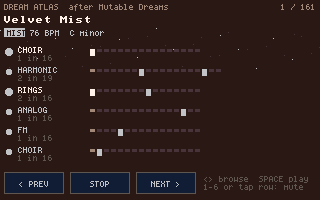
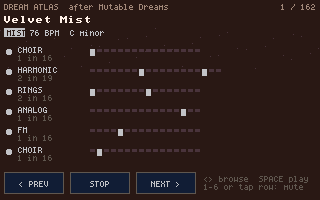
dreamatlas: Mipo Band, Puppetmaker 2's band with singing Mipos
Conga, an alternating bongo pair (JamCfg.pair), tambourine, guiro, the
babirhodes rolled six-note Rhodes chord at a wandering root, and the Mipos
singing pi / po with the odd ba / bi. 60 BPM, swing 52, chromatic. New models
TAMB, RHODES, VOICE from Playtime's puppetmaker patches. The voice is started
live from update(): INSTR_VOICE resets to a neutral 'ah' after applying its
macros at note-on, so a booked note cannot change vowel or take a consonant
(engine bug documented in the design doc, not fixed here).

diff --git a/tools/carts/dreamatlas.c b/tools/carts/dreamatlas.c
@@ -9,7 +9,7 @@
   "lineage": "A port of the BIOME atlas from Mutable Dreams 1.4 (Kid Bunka / Christoph Link, free firmware for the M-VAVE FM-1, itself built on Mutable Instruments' Plaits/Rings/Elements). The 157 scenes are the upstream's own factory data (MIT), generated into runtime/dreamatlas/biomes.h; the sequencer (Euclid hits/length/rotate per track, seeded rolls, chord journeys, scale masks, the Lo-Fi kit) is ported line by line from app/dsp/dreams.cpp. The fifteen VOICES are NOT ported: each is mapped onto the nearest engine dreamengine already ships, which is the experiment.",
   "homage": "Mutable Dreams (Kid Bunka) / Mutable Instruments",
   "description": {
-    "summary": "157 small generative worlds from Mutable Dreams, plus a few of our own (a house jam, a tabla-and-guiro bazaar, Moon Meadow with tablas, a slow organ-and-upright brew): six drifting Euclidean tracks, chord journeys and a Lo-Fi kit, played on dreamengine's own voices.",
+    "summary": "157 small generative worlds from Mutable Dreams, plus a few of our own (a house jam, a tabla-and-guiro bazaar, Moon Meadow with tablas, a slow organ-and-upright brew, the Puppetmaker band with singing Mipos): six drifting Euclidean tracks, chord journeys and a Lo-Fi kit, played on dreamengine's own voices.",
     "detail": "Each BIOME is one scene: six tracks, each a voice (Plaits-style drums, FM, analog, Rings and Elements resonators, a sine choir, a round bass...) with its OWN rhythm, k hits spread over n steps. The lengths differ (16, 19, 13...), so the tracks slide against each other and the loop takes minutes to come round. Some biomes walk a chord progression under it, some swap three tracks for a crunchy 16 kHz Lo-Fi drum kit. Browse in the curated order: neighbours are meant to feel genuinely different. The scenes are the original's factory data; the sounds are this engine's nearest voices, so it is a translation, not a copy.",
     "controls": "LEFT/RIGHT or the arrows: next / previous biome · SPACE or PLAY: start / stop · 1-6: mute a track · tap a track row to mute it"
   },
@@ -42,11 +42,11 @@ de:meta */
 // ── upstream constants ───────────────────────────────────────────────────────
 enum { M_KICK, M_SNARE, M_HAT, M_FM, M_VA, M_RINGS, M_HARMONIC, M_CHOIR, M_BASS, M_ELEMENTS,
        M_MELLOW, M_SATIN, M_VELVET, M_SPECTRAL, M_BREATH,
-       M_TABLA, M_SCRAPE, M_UPRIGHT, M_ORGAN, M_GUITAR, M_BELL,
+       M_TABLA, M_SCRAPE, M_UPRIGHT, M_ORGAN, M_GUITAR, M_BELL, M_TAMB, M_RHODES, M_VOICE,
        M_MODELS };   // from M_TABLA on they are OURS (no upstream model): only our own biomes use them
 static const char *const MODEL_NAME[M_MODELS] = { "KICK", "SNARE", "HAT", "FM", "ANALOG", "RINGS", "HARMONIC",
     "CHOIR", "BASS", "ELEMENTS", "MELLOW", "SATIN", "VELVET KEYS", "SPECTRAL", "BREATH", "TABLA", "SCRAPE",
-    "UPRIGHT", "ORGAN", "GUITAR", "BELL" };
+    "UPRIGHT", "ORGAN", "GUITAR", "BELL", "TAMB", "RHODES", "VOICE" };
 static const char *const KIT_NAME[5] = { "DUST", "CRATE", "SOFT", "FOUND OBJECTS", "VELOUR TAPE" };
 static const char *const SCALE_NAME[13] = { "chromatic", "minor", "major", "dorian", "minor pent", "major pent",
     "whole tone", "phrygian", "ukr dorian", "harm minor", "dbl harm min", "harm major", "dbl harm maj" };
@@ -129,7 +129,15 @@ static Scene S;
 // shapes on a 10-eighth (5/4) cycle; the agogo plays 5 in 12. The bar, the bells' three-against-
 // four, the organ's dotted halves and the guitar's fives meet again only every few bars; the bass
 // and the chords every 3. The bells keep time where brew has a hat (six tracks).
-#define DA_OWN 4
+// MIPO BAND is Puppetmaker 2's band (Mipo Puppetmaker; the playtime docs/PUPPETMAKER-SOUND.md §1a
+// and its puppetmaker style), on Playtime's synth patches for it: the CR-78 conga (low), the two
+// bongos as one alternating low/high pair (+7), the tambourine (a short jingle high-passed at
+// 6.5 kHz), the guiro (INSTR_SCRAPE), the babirhodes "lick" (one ROLLED six-note chord, root + 0 7 16
+// 19 21 24, up-strummed +29 +23 +23 +76 +40 ms, ringing 3 s, floating in at a wandering root: the
+// same voicing every time, only the pitch moves) and the Mipos singing, INSTR_VOICE cycling the
+// syllables mi-po-la-i. 60 BPM in 16ths, swing 52, chromatic, and nothing resolves. One odd length:
+// the Mipos sing 5 in 14. The triangles and the ba/bi blips have no track left.
+#define DA_OWN 5
 #define DA_ALL (DA_BIOMES + DA_OWN)
 static const DaBiome DA_OWN_BIOME[DA_OWN] = {
  {"Marmalade Jam",8,125,7,2,125125,0,0,650,200,100,0,120,0,0,0,380,300,{500,260,520,60},{
@@ -160,13 +168,21 @@ static const DaBiome DA_OWN_BIOME[DA_OWN] = {
   /* upright (hUpright)  */ {17,300,300,350,800,0,13,24,0,900,41,480,0,2,0,1,250,450,850,100,0,0},
   /* organ   (brewOrgan) */ {18,600,100,700,450,200,2,6,0,1000,53,400,0,4,0,1,100,250,850,100,0,0},
   /* guitar  (brewGuitar)*/ {19,220,400,500,500,150,3,10,0,850,60,600,0,2,0,1,200,100,850,100,0,0}}},
+ {"Mipo Band",5,60,3,0,52525,0,0,650,200,100,0,80,0,0,-1,0,300,{500,350,500,60},{
+  /* conga   (conga)     */ {15,300,150,580,800,0,4,16,0,550,52,450,0,1,0,1,200,0,850,100,0,0},
+  /* bongos  (conga)     */ {15,300,150,257,600,0,7,16,1,750,62,560,0,1,0,1,250,0,850,100,0,0},
+  /* tamb                */ {21,0,0,220,200,60,9,16,0,850,60,620,0,1,0,1,300,0,850,100,0,0},
+  /* guiro   (guiro)     */ {16,870,0,600,700,20,1,16,9,500,60,380,0,1,0,1,0,0,850,100,0,0},
+  /* rhodes  (rhodes2)   */ {22,200,150,1000,400,300,1,16,8,500,51,500,0,1,0,1,0,120,850,100,0,150},
+  /* mipos               */ {23,850,0,500,250,250,5,14,2,450,69,500,0,1,0,1,200,500,850,100,0,0}}},
 };
 // how each of our biomes JAMS (Playtime's drum jam): the order its layers enter, who may rest a
 // phrase, who a breakdown takes out, which track plays the phrase-end fill, which lets go before the one
 // names[] relabels the tracks (a drumhead playing a kick reads KICK); prog[] is an own chord cycle
 // (scale degrees, prog_bars bars each) in place of a JOURNEY pattern, for a cycle of any length
 typedef struct { int chord_pattern, chord_tracks, build[6], rest[4], break_mask, fill, letgo;
-                 const char *names[6]; signed char prog[8]; int prog_len, prog_bars; } JamCfg;
+                 const char *names[6]; signed char prog[8]; int prog_len, prog_bars;
+                 signed char pair[6]; } JamCfg;   // pair[i] != 0: track i alternates note, note + pair[i] (a bongo pair)
 static const JamCfg DA_OWN_JAM[DA_OWN] = {
     { 2, 0x38, {0, 1, 3, 2, 5, 4}, {1, 2, 4, 5}, 1 << 0 | 1 << 2 | 1 << 3, 2, 1,     // Marmalade: I-vi-IV-V
       { "KICK", "HAT", "CLAP", "BASS", "PLUCK", "KEYS" } },
@@ -176,6 +192,8 @@ static const JamCfg DA_OWN_JAM[DA_OWN] = {
       { "CHOIR", "DRONE", "RINGS", "BAYAN", "DAYAN", "SCRAPE" } },
     { 1, 0x38, {0, 1, 2, 3, 4, 5}, {2, 3, 4, 5}, 1 << 3 | 1 << 4 | 1 << 5, 1, 2,     // Slow Brew: i-III-VI, a bar each
       { "KICK", "SNARE", "AGOGO", "UPRIGHT", "ORGAN", "GUITAR" }, { 0, 2, 5 }, 3, 1 },
+    { 0, 0,    {0, 2, 5, 1, 4, 3}, {1, 2, 3, 5}, 1 << 0 | 1 << 1 | 1 << 2, 1, 2,     // Mipo Band: no chords, chromatic; the Mipos come in second
+      { "CONGA", "BONGOS", "TAMB", "GUIRO", "RHODES", "MIPOS" }, {0}, 0, 0, { 0, 7, 0, 0, 0, 0 } },
 };
 static const DaBiome *biome_row(int id) { return id < DA_BIOMES ? &DA_BIOME[id] : &DA_OWN_BIOME[id - DA_BIOMES]; }
 static int browse_id(int k) { return k < DA_BIOMES ? DA_BROWSE[k] : k; }   // ours come last, in order
@@ -398,7 +416,7 @@ static const float VOICE_TRIM_DB[M_MODELS] = {
     /* KICK SNARE HAT */ 3.4f, 5.0f, 3.9f,  /* FM VA RINGS */ 6.0f, 2.7f, -1.7f,
     /* HARMONIC CHOIR BASS */ 9.4f, -5.8f, 0,  /* ELEMENTS MELLOW SATIN */ 0, 0, 0,
     /* VELVET SPECTRAL BREATH */ 3.3f, 0, 3.2f,  /* TABLA SCRAPE: ours, no upstream to fit */ 0, 0,
-    /* UPRIGHT ORGAN GUITAR BELL: ours */ 0, 0, 0, 0 };
+    /* UPRIGHT ORGAN GUITAR BELL: ours */ 0, 0, 0, 0,  /* TAMB RHODES VOICE: ours */ 0, 0, 0 };
 
 // ── KICK: Plaits' AnalogBassDrum, PORTED (Emilie Gillet, MIT), the trigger path only ─────────
 // Mapping it onto INSTR_SINE gave a sustained thump with no click, 20 dB too loud in the balance.
@@ -653,6 +671,16 @@ static void config_track(int i) {
     case M_BELL:      // brewBell: a mallet in bell material, ~150 ms rings, inharmonic overtones
         instrument(s, INSTR_MALLET, 0, 160, 0, 80);
         instrument_harmonics(s, harm); instrument_timbre(s, tone); instrument_morph(s, shape); break;
+    // ── Puppetmaker's band, from Playtime's puppetmaker patches ──
+    case M_TAMB:      // the CR-78 tambourine: a short noise jingle high-passed at 6.5 kHz
+        instrument(s, INSTR_NOISE, 0, 220, 0, 60);
+        instrument_filter(s, FILTER_HIGH, 6500, 1); break;
+    case M_RHODES:    // the rhodes patch (the epiano cart's suitcase): mellow, the Rhodes detent
+        instrument(s, INSTR_EPIANO, 1, 0, 7, 450);
+        instrument_harmonics(s, harm); instrument_timbre(s, tone); instrument_morph(s, shape); break;
+    case M_VOICE:     // the Mipos: INSTR_VOICE, a child-sized tract (tone = SIZE), each note its own vowel
+        instrument(s, INSTR_VOICE, 30, 60, 7, 160);
+        instrument_harmonics(s, 0); instrument_timbre(s, tone); instrument_morph(s, shape); break;
     default:          // BREATH: a pitched sine reed crossfaded (harm) with lowpassed air
         instrument(s, INSTR_SINE, A, D, 0, 120); instrument_level(s, 1 - harm);
         instrument(l, INSTR_NOISE, A, D, 0, 120);
@@ -723,6 +751,7 @@ static void track_booking(int id, double end) {
     live_id[live_w] = id; live_end[live_w] = end; live_w = (live_w + 1) % LIVE_N;
 }
 static void unbook_all(void);
+static void sing_clear(void);
 static void silence_all(void) {
     double at = audio_time();
     unbook_all();                                  // notes not started yet never play
@@ -730,6 +759,7 @@ static void silence_all(void) {
         if (live_id[k] > 0 && live_end[k] > at) note_event_at(live_id[k], at, NEV_DAMP, 1);
     memset(live_id, 0, sizeof live_id);
     note_off_all();
+    sing_clear();
 }
 static void unbook_all(void) {
     for (int i = 0; i < 6; i++) { unschedule(SL_TRACK + i, 0, 0); unschedule(SL_LAYER + i, 0, 0); }
@@ -750,6 +780,45 @@ static void load_biome(int id) {
 
 // ── firing: one track hit, booked at t ──────────────────────────────────────
 static void mark_hit(int i, double t) { hit_t[i][hit_w[i]++ & 7] = t; }
+// ── the Mipos' singing, started LIVE ─────────────────────────────────────────────────────────
+// INSTR_VOICE takes its vowel, size and effort only from a LIVE note: at note-on sound.h applies the
+// macros (vox_apply_macros) and then resets the voice to a neutral "ah" (sound_voice_start runs
+// after it), so a booked note, its slot macros and its NoteOpts offsets all sing "a". And a booked
+// note cannot take voice_consonant. So a sung syllable is queued with its time and started from
+// update() once that time arrives (up to a frame late, which a sung voice at 60 BPM never shows),
+// then given its vowel and consonant through the live calls. As Puppetmaker 2's band sings: mostly
+// the Mipos' "pi" (short) and "po" (long), now and then babirhodes' "ba" or "bi".
+typedef struct { double t; int note, slot, syl; float gain, size, effort; } Sung;
+static Sung sung_q[16]; static int sung_n;
+static int sung_h[8]; static double sung_off[8];
+static unsigned sung_rng = 1;
+static void sing_book(int i, int note, double t, float gain, float size, float effort) {
+    if (sung_n >= 16) return;
+    sung_rng = sung_rng * 1664525u + 1013904223u;
+    unsigned r = (sung_rng >> 8) % 100;
+    int syl = r < 60 ? 0 : r < 90 ? 1 : r < 95 ? 2 : 3;      // pi 60 · po 30 · ba 5 · bi 5 (%)
+    sung_q[sung_n++] = (Sung){ t, note, SL_TRACK + i, syl, gain, size, effort };
+}
+static void sing_due(void) {
+    static const float vowel[4] = { 1, .25f, .5f, 1 };      // pi = I, po = O, ba = A, bi = I (U-O-A-E-I axis)
+    static const int cons[4] = { 18, 18, 0, 0 };             // p, p, b, b (voice_consonant ids)
+    static const int len_ms[4] = { 284, 693, 400, 200 };     // Puppetmaker's own sample lengths
+    double at = audio_time();
+    for (int k = 0; k < 8; k++) if (sung_h[k] && at >= sung_off[k]) { note_off(sung_h[k]); sung_h[k] = 0; }
+    for (int q = 0; q < sung_n; ) {
+        if (sung_q[q].t > at) { q++; continue; }
+        const Sung *g = &sung_q[q];
+        int h = note_on(g->note, g->slot, bound((int)(g->gain * 7 + .5f), 1, 7));
+        note_harmonics(h, vowel[g->syl]); note_timbre(h, g->size); note_morph(h, g->effort);
+        voice_consonant(h, cons[g->syl]);
+        for (int k = 0; k < 8; k++) if (!sung_h[k]) { sung_h[k] = h; sung_off[k] = at + len_ms[g->syl] / 1000.0; break; }
+        sung_q[q] = sung_q[--sung_n];
+    }
+}
+static void sing_clear(void) {
+    for (int k = 0; k < 8; k++) if (sung_h[k]) note_off(sung_h[k]);
+    memset(sung_h, 0, sizeof sung_h); sung_n = 0; sung_rng = 1;
+}
 static float snare_gain = 1;     // the jam's fills play the clap softer; every factory hit is 1
 static void fire(int i, int note, float vel, double t, int gate_ms) {
     const DaTrack *tr = &S.b.tr[i];
@@ -762,6 +831,9 @@ static void fire(int i, int note, float vel, double t, int gate_ms) {
     if (m == M_ORGAN)  dur = (int)(200 * powf(12, du));            // chords held toward the next
     if (m == M_GUITAR) dur = (int)(150 * powf(12, du));
     if (m == M_BELL)   dur = 200;
+    if (m == M_TAMB)   dur = 290;
+    if (m == M_RHODES) dur = 3000;                                 // the rolled chord rings ~3 s
+
     // Breathe: a 7..20 s sine per track that drifts the cutoff; sampled at the note (their drift
     // is continuous, ours lands per note). Tides on ambient tracks add a second, slower sway.
     float ph = (float)fmod(t / (7.0 + i * 2.3) + i * .137, 1.0);
@@ -785,6 +857,21 @@ static void fire(int i, int note, float vel, double t, int gate_ms) {
             double at = t + (m == M_ORGAN ? .008 : .018 + k * .012);
             track_booking(schedule_note_at(at, n, s, 7, dur, &c), end + .1);
         }
+        mark_hit(i, t); return;
+    }
+    if (S.jam && DA_OWN_JAM[S.jam - 1].pair[i]) {   // a pair (the bongos): low, high in turn
+        static int pflip[6]; if (pflip[i]++ & 1) note += DA_OWN_JAM[S.jam - 1].pair[i];
+    }
+    if (m == M_RHODES) {   // babirhodes' rhodes2: ONE rolled six-note chord, a hand's up-strum, as measured
+        static const int iv[6] = { 0, 7, 16, 19, 21, 24 }, at_ms[6] = { 0, 29, 52, 75, 151, 191 };
+        for (int k = 0; k < 6; k++) {
+            NoteOpts c = o; c.gain = o.gain * .6f;
+            track_booking(schedule_note_at(t + at_ms[k] / 1000.0, note + iv[k], s, 7, dur, &c), end + 3);
+        }
+        mark_hit(i, t); return;
+    }
+    if (m == M_VOICE) {    // the Mipos: queued, then STARTED LIVE in update() (see sing_due)
+        sing_book(i, note, t, o.gain, unit(tr->tone), unit(tr->shape));
         mark_hit(i, t); return;
     }
     if (m == M_BELL) { static int flip[6]; if (flip[i]++ & 1) note = quantize(note - 5, S.b.root, S.b.scale); }   // the pair: high, low
@@ -917,6 +1004,7 @@ void update(void) {
     if (keyp(KEY_SPACE)) { playing = !playing; if (playing) { t_next = audio_time() + .05; } else { silence_all(); } }
     for (int i = 0; i < 6; i++) if (keyp('1' + i)) muted[i] = !muted[i];
     if (playing) while (t_next < audio_time() + LOOKAHEAD) { double t = t_next; t_next += step_dur(step); tick(t); }
+    sing_due();
 #ifdef DE_TRACE
     watch("biome", "%d", cur);
     watch("step", "%u", step);

diff --git a/docs/design/mutable-dreams.md b/docs/design/mutable-dreams.md
@@ -158,6 +158,25 @@ Dbmaj9, checked from the trace) every three beats, the guitar strums on a 10-eig
 plays 5 in 12. Its jam builds like brew's intro (drums, bells, then the band) and its breakdown is
 brew's break: drums and bells alone. `JamCfg.names[]` relabels the tracks (the drumhead reads KICK).
 
+The fifth, **Mipo Band**, is Puppetmaker 2's band (playtime `docs/PUPPETMAKER-SOUND.md` §1a, its
+`puppetmaker` style and patches): 60 BPM in 16ths, swing 52, chromatic, nothing resolves. Three more
+models: **TAMB** (noise high-passed at 6.5 kHz), **RHODES** (the `rhodes` EPIANO patch, playing
+babirhodes' rhodes2 as measured: ONE rolled six-note chord, root + 0 7 16 19 21 24, up-strummed +29
++23 +23 +76 +40 ms, ringing 3 s, at a wandering root) and **VOICE** (the singing: mostly the Mipos'
+"pi" and "po", now and then babirhodes' "ba" or "bi", at Puppetmaker's own sample lengths). The
+conga and the two bongos (one track, alternating low/high via `JamCfg.pair[]`) are the conga patch on
+the drumhead, the guiro is the scrape. The triangles and the "biep" bends have no track left.
+
+⚠ **An engine bug the singing works around** (not fixed here: `sound.h` is shared, and the fix changes
+every voice cart): at note-on, `sound.h` runs `vox_apply_macros()` and THEN `sound_voice_start()`,
+which resets the voice to a neutral "ah". So an `INSTR_VOICE` note started by `schedule_note_at` (or
+`hit`/`note`) ignores its slot's harmonics/timbre/morph AND its NoteOpts offsets, and its shapes never
+reach the vowel either; and a booked note cannot take `voice_consonant`. The cart therefore queues
+each syllable and starts it LIVE from `update()` (`sing_due()`), then sets vowel, size, effort and
+consonant through `note_harmonics/_timbre/_morph` + `voice_consonant` (measured: "pi" ~830 Hz centroid,
+"po" ~450 Hz, against ~630 Hz for every note before). Fixing it = calling `vox_apply_macros(v)` at
+the end of `sound_voice_start()`.
+
 LEVELS in our biomes come from measured solo stems (`DE_DEFINES=DA_ID=<id>,DA_SOLO=<n>`), not the
 factory fit: upstream's balance puts the quiet Plaits kick ~20 dB under a loud round bass, which a
 four-on-the-floor cannot take. Kick and bass now sit within a few dB of each other.
